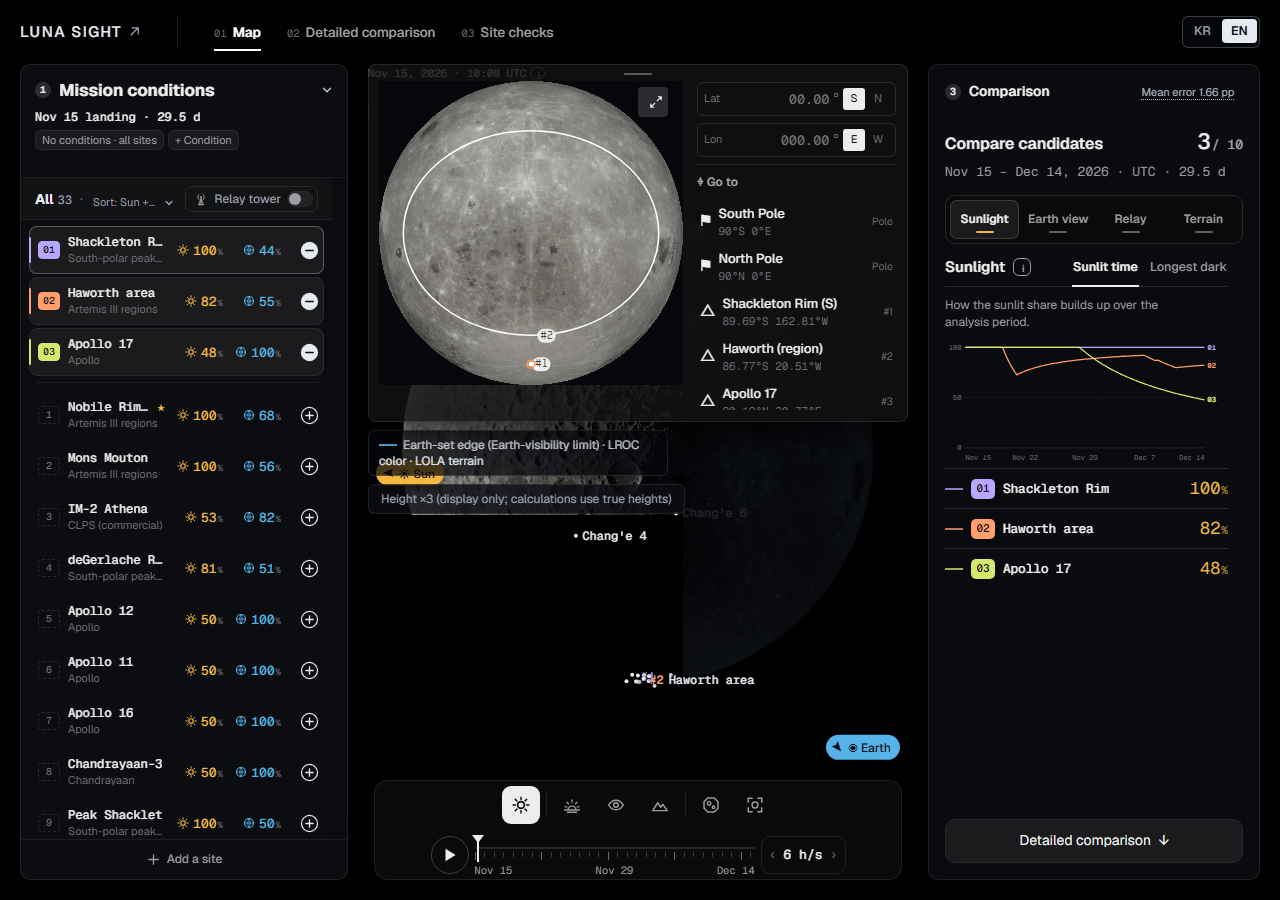
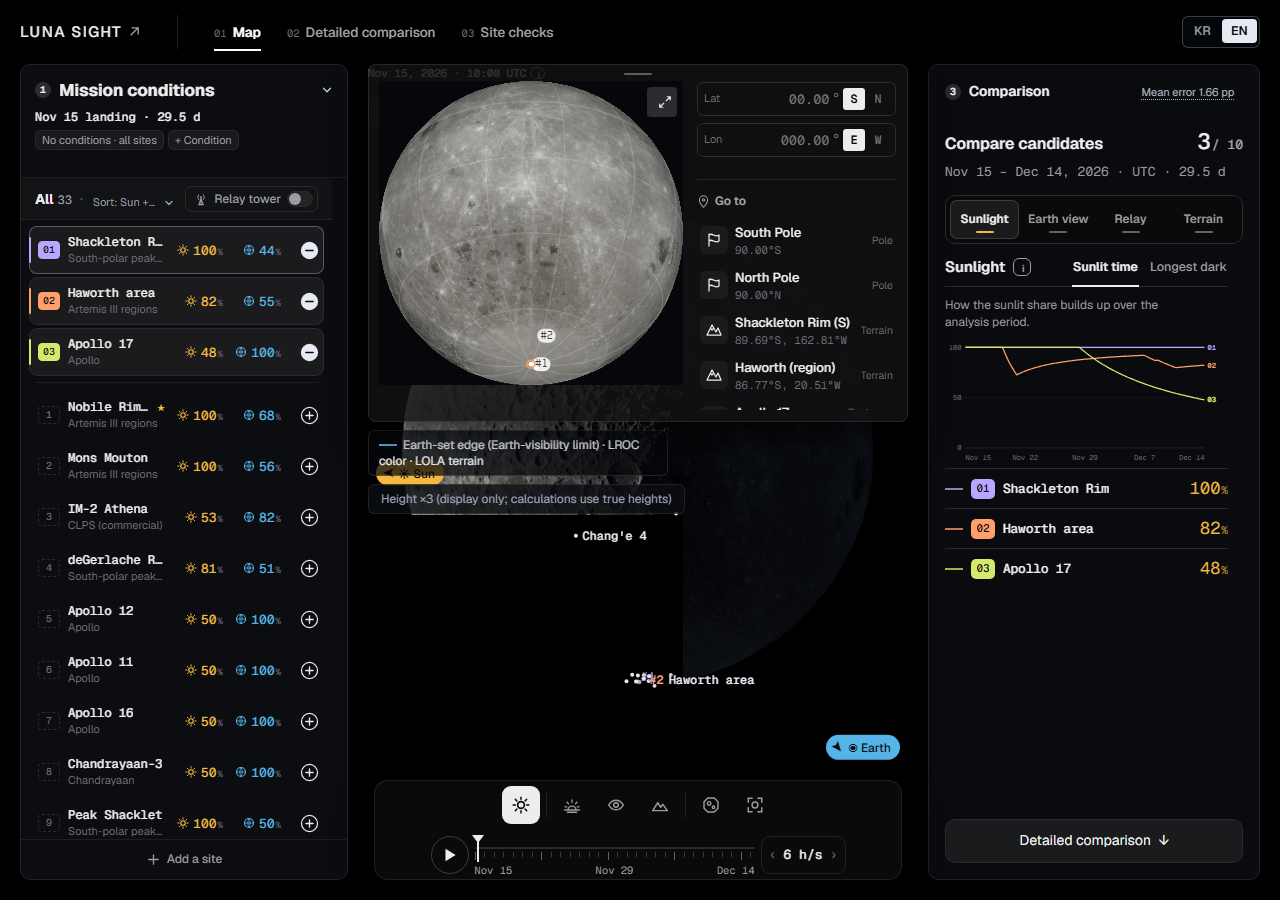
Fix minimap review details and mobile globe overlap

Changed region(s): [[0.5312, 0.1867, 0.6875, 0.4667], [0.5, 0.0933, 0.5312, 0.1244]]

diff --git a/web/js/minimap.js b/web/js/minimap.js
@@ -58,7 +58,7 @@ function build() {
   const exp = box.querySelector('.mm-exp');
   const closeIt = () => { box.classList.remove('open'); box.querySelector('.mm-side').hidden = true; own = null; sizeBall(); expLabel(); };
   exp.addEventListener('click', () => { if (box.classList.contains('open')) closeIt(); else { openIt(); expLabel(); } });
-  box.addEventListener('keydown', e => { if (e.key === 'Escape' && box.classList.contains('open')) { closeIt(); exp.focus(); } });
+  document.addEventListener('keydown', e => { if (e.key === 'Escape' && box.classList.contains('open')) { e.preventDefault(); closeIt(); exp.focus(); } });
   document.addEventListener('pointerdown', e => { if (!box.contains(e.target) && box.classList.contains('open')) closeIt(); });
   // drag rotates the minimap only; a click flies the 3D view there
   let drag = null;
@@ -113,7 +113,7 @@ function relabel() {
     s.querySelector(`#mm-${axis}`).closest('.mm-coord').querySelector('[role="group"]').setAttribute('aria-label',label);
   }
   s.querySelector('.mm-submit').textContent = t('mmGo'); s.querySelector('.mm-an').textContent = t('mmAnalyse');
-  s.querySelector('.mm-list-title').textContent = `⌖ ${t('mmGoto')}`;
+  s.querySelector('.mm-list-title').innerHTML = `${miniIcon('pin')}<span>${esc(t('mmGoto'))}</span>`;
 }
 function sizeBall() {
   const open = box.classList.contains('open'), width = box.clientWidth, height = box.clientHeight;
@@ -159,17 +159,10 @@ function draw() {
     g.putImageData(im, 0, 0);
   } else { g.fillStyle = '#555'; g.beginPath(); g.arc(R, R, R, 0, 7); g.fill(); }
   const dpr = W / parseFloat(cv.style.width || W);
-  g.strokeStyle = 'rgba(237,237,237,.18)'; g.lineWidth = .6 * dpr;
+  g.strokeStyle = 'rgba(237,237,237,.28)'; g.lineWidth = .75 * dpr;
   const curve = points => { g.beginPath(); let pen=false; for(const [lat,lon] of points) { const q=project(lat,lon); if(!q.front){pen=false;continue;} const x=R+q.x*R,y=R-q.y*R; if(pen)g.lineTo(x,y);else g.moveTo(x,y);pen=true; } g.stroke(); };
   for(let lat=-60;lat<=60;lat+=30)curve(Array.from({length:181},(_,i)=>[lat,i*2-180]));
   for(let lon=-180;lon<180;lon+=30)curve(Array.from({length:91},(_,i)=>[i*2-90,lon]));
-  // current 3D view: ring sized by the camera range (≈ half the visible width), centre dot
-  const p = project(view.lat, view.lon);
-  if (p.front) {
-    const ang = Math.min(1.4, Math.atan2(view.range * Math.tan(22.5 * D2R), 1737.4));
-    const rr = Math.max(3 * dpr, Math.sin(ang) * R);
-    g.strokeStyle = '#fff'; g.lineWidth = 1.5 * dpr; g.beginPath(); g.ellipse(R + p.x * R, R - p.y * R, rr, rr * 0.8, 0, 0, 7); g.stroke();
-  }
   // Pinned labels use separate pills, including nearby polar candidates.
   const pills=[];
   g.font = `${10 * dpr}px Oxanium, monospace`; g.textBaseline = 'middle';
@@ -204,15 +197,16 @@ function go() {
   err.style.color = 'var(--muted)'; err.textContent = fill(t('mmHere'), { c: `${r.lat.toFixed(4)}°, ${r.lon.toFixed(4)}°` });
   setTimeout(() => { err.style.color = ''; }, 0);
 }
+const miniIcon = kind => `<svg viewBox="0 0 16 16" aria-hidden="true" fill="none" stroke="currentColor" stroke-width="1.25" stroke-linecap="round" stroke-linejoin="round">${kind==='mountain'?'<path d="M1 13 6 3l4 7 2-4 3 7H1Z M4.5 6l1.5 2 1.5-2"/>':kind==='pin'?'<path d="M8 15s5-5 5-9a5 5 0 1 0-10 0c0 4 5 9 5 9Z"/><circle cx="8" cy="6" r="1.5"/>':'<path d="M3 14V2m0 1c3-3 6 3 10 0v6C9 12 6 6 3 9"/>'}</svg>`;
 function lists() {
   const el = box?.querySelector('.mm-lists'); if (!el || !box.classList.contains('open')) return;
   const st = LLSN().state, pins = LLSN().pins?.() || [];
-  const coord = s => `${Math.abs(s.lat).toFixed(2)}°${s.lat<0?'S':'N'} ${Math.abs(s.lon).toFixed(2)}°${s.lon<0?'W':'E'}`;
-  const row = (s, tag) => `<button type="button" class="mm-destination" data-site="${esc(s.id)}"><span class="mm-dest-icon" aria-hidden="true">${tag===t('mmPast')?'⚑':'△'}</span><span class="mm-dest-copy"><span>${esc(nameOf(s))}</span><small>${coord(s)}</small></span><span class="mm-tag">${esc(tag)}</span></button>`;
+  const coord = s => `${Math.abs(s.lat).toFixed(2)}°${s.lat<0?'S':'N'}, ${Math.abs(s.lon).toFixed(2)}°${s.lon<0?'W':'E'}`;
+  const row = (s, tag) => `<button type="button" class="mm-destination" data-site="${esc(s.id)}"><span class="mm-dest-icon" aria-hidden="true">${miniIcon(tag===t('mmPast')?'flag':'mountain')}</span><span class="mm-dest-copy"><span>${esc(nameOf(s))}</span><small>${coord(s)}</small></span><span class="mm-tag">${esc(tag)}</span></button>`;
   const past = s => ['apollo','luna','change','chandrayaan','slim','clps'].includes(s.group);
   const ordered = [...pins.map(p => st.sites.find(s => s.id===p.id)), ...(LLSN().sortedSites?.() || []).slice(0,5), ...st.sites.filter(past)].filter(Boolean);
   const seen = new Set();
-  el.innerHTML = [-90,90].map(lat => `<button type="button" class="mm-destination" data-pole="${lat}"><span class="mm-dest-icon" aria-hidden="true">⚑</span><span class="mm-dest-copy"><span>${esc(t(lat<0?'mmSouth':'mmNorth'))}</span><small>90°${lat<0?'S':'N'} 0°E</small></span><span class="mm-tag">${esc(t('mmPole'))}</span></button>`).join('') + ordered.filter(s=>{if(seen.has(s.id))return false;seen.add(s.id);return true;}).map(s=>row(s,pins.some(p=>p.id===s.id)?`#${pins.find(p=>p.id===s.id).n}`:past(s)?t('mmPast'):t('mmTerrain'))).join('');
+  el.innerHTML = [-90,90].map(lat => `<button type="button" class="mm-destination" data-pole="${lat}"><span class="mm-dest-icon" aria-hidden="true">${miniIcon('flag')}</span><span class="mm-dest-copy"><span>${esc(t(lat<0?'mmSouth':'mmNorth'))}</span><small>90.00°${lat<0?'S':'N'}</small></span><span class="mm-tag">${esc(t('mmPole'))}</span></button>`).join('') + ordered.filter(s=>{if(seen.has(s.id))return false;seen.add(s.id);return true;}).map(s=>row(s,past(s)?t('mmPast'):t('mmTerrain'))).join('');
 
 }
 

diff --git a/web/js/minimap_drag.js b/web/js/minimap_drag.js
@@ -6,6 +6,7 @@ const KEY='ls.minimapPos', SIZE_KEY='ls.minimapSizes.v13';
 const defaults={closed:{w:222,h:228},open:{w:580,h:358}};
 let box, grip, pos={fx:1,fy:0}, sizes=structuredClone(defaults), lastOpen=false, frame=0;
 const clamp=(v,a,b)=>Math.max(a,Math.min(b,v));
+const compact=()=>innerWidth<=899;
 const still=()=>matchMedia('(prefers-reduced-motion: reduce)').matches;
 function load(){try{const p=JSON.parse(localStorage.getItem(KEY));if(p&&Number.isFinite(p.fx)&&Number.isFinite(p.fy))pos={fx:clamp(p.fx,0,1),fy:clamp(p.fy,0,1)};
  const s=JSON.parse(localStorage.getItem(SIZE_KEY));for(const mode of ['closed','open'])if(s?.[mode]&&Number.isFinite(s[mode].w)&&Number.isFinite(s[mode].h))sizes[mode]={w:clamp(s[mode].w,mode==='open'?304:142,2000),h:clamp(s[mode].h,mode==='open'?228:148,1500)};
@@ -26,6 +27,12 @@ function followers(bx,by,w,h,a){
 }
 function place(animate=false){
  if(!box)return;
+ if(compact()){
+  const open=box.classList.contains('open');
+  Object.assign(box.style,{left:'',top:'',right:'',bottom:'',width:`${Math.min(open?580:222,innerWidth-32)}px`,height:`${open?358:228}px`});
+  for(const selector of ['#hud-1','#globe-stage .g3-dock','#map-legend']){const el=document.querySelector(selector);if(el)for(const key of ['left','top','right','bottom'])el.style[key]='';}
+  return;
+ }
  const a=area(),d=dimensions(a,box.classList.contains('open')?'open':'closed');
  let x=a.l+pos.fx*Math.max(0,a.r-a.l-d.w),y=a.t+pos.fy*Math.max(0,a.b-a.t-d.h);
  x=clamp(x,a.l,a.r-d.w);y=clamp(y,a.t,a.b-d.h);
@@ -42,6 +49,7 @@ function init(){
  const label=()=>{grip.setAttribute('aria-label',t('mmMove'));grip.title=t('mmMove');handles.forEach(h=>h.setAttribute('aria-label',`${t('mmResize')} (${h.dataset.edge})`));};label();window.addEventListener('llsn:lang',label);
  let drag=null;
  box.addEventListener('pointerdown',e=>{
+  if(compact())return;
   const handle=e.target.closest('.mm-resize'),moving=e.target.closest('.mm-grip');if((!handle&&!moving)||e.button!==0)return;
   const r=box.getBoundingClientRect(),a=area();drag={edge:handle?.dataset.edge,x:e.clientX,y:e.clientY,l:r.left-a.sc.left,t:r.top-a.sc.top,w:r.width,h:r.height,a};
   (handle||moving).setPointerCapture(e.pointerId);box.classList.add('dragging');e.preventDefault();e.stopPropagation();
@@ -63,11 +71,13 @@ function init(){
  };box.addEventListener('pointerup',end);box.addEventListener('pointercancel',end);
  const reset=()=>{pos={fx:1,fy:0};save();place(true);};grip.addEventListener('dblclick',reset);
  grip.addEventListener('keydown',e=>{
+  if(compact())return;
   if(e.key==='Home'){e.preventDefault();reset();return;}const delta={ArrowLeft:[-1,0],ArrowRight:[1,0],ArrowUp:[0,-1],ArrowDown:[0,1]}[e.key];if(!delta)return;
   e.preventDefault();const a=area(),r=box.getBoundingClientRect(),step=e.shiftKey?40:10;positionFromRect(r.left-a.sc.left+delta[0]*step,r.top-a.sc.top+delta[1]*step,r.width);save();place();
  });
  handles.forEach(h=>h.addEventListener('keydown',e=>{const delta={ArrowLeft:[-1,0],ArrowRight:[1,0],ArrowUp:[0,-1],ArrowDown:[0,1]}[e.key];if(!delta)return;e.preventDefault();const a=area(),r=box.getBoundingClientRect();drag={edge:h.dataset.edge,l:r.left-a.sc.left,t:r.top-a.sc.top,w:r.width,h:r.height,a};change(delta[0]*(e.shiftKey?40:10),delta[1]*(e.shiftKey?40:10));end();}));
  new MutationObserver(()=>{const open=box.classList.contains('open');if(open!==lastOpen){
+  if(compact()){lastOpen=open;place(true);return;}
   const a=area(),old=dimensions(a,lastOpen?'open':'closed'),next=dimensions(a,open?'open':'closed');
   const x=a.l+pos.fx*Math.max(0,a.r-a.l-old.w)+old.w-next.w,y=a.t+pos.fy*Math.max(0,a.b-a.t-old.h);
   lastOpen=open;positionFromRect(x,y,next.w);place(true);

diff --git a/web/css/layout.css b/web/css/layout.css
@@ -1345,7 +1345,7 @@ body.on-about .ls-export { display: none; }
 .ls-minimap .mm-grip { position:absolute; top:0; left:7px; right:7px; height:17px; margin:0; display:grid; opacity:1; z-index:4; }
 .ls-minimap .mm-grip i { width:28px; height:2px; border:0; border-radius:1px; background:rgba(237,237,237,.35); }
 .ls-minimap .mm-ball { position:absolute; top:16px; left:10px; margin:0; display:block; background:#05070b; cursor:pointer; touch-action:none; }
-.ls-minimap .mm-exp, .ls-minimap.open .mm-exp { left:calc(var(--mm-ball,200px) - 35px); right:auto; top:22px; width:30px; height:30px; border-radius:4px; border:0; background:rgba(58,58,62,.72); color:#ededed; z-index:3; }
+.ls-minimap .mm-exp, .ls-minimap.open .mm-exp { left:calc(var(--mm-ball,200px) - 26px); right:auto; top:22px; width:30px; height:30px; border-radius:4px; border:0; background:rgba(58,58,62,.72); color:#ededed; z-index:3; }
 .ls-minimap .mm-exp .ic { width:14px; height:14px; }
 .ls-minimap .mm-side { position:absolute; right:11px; top:17px; bottom:11px; width:var(--mm-panel,214px); display:flex; flex-direction:column; gap:7px; min-height:0; overflow:hidden; }
 .ls-minimap .mm-side[hidden] { display:none; }
@@ -1356,7 +1356,7 @@ body.on-about .ls-export { display: none; }
 .ls-minimap .mm-coord input::-webkit-inner-spin-button { appearance:none; }
 .ls-minimap .mm-coord > span { color:#6e6e74; }
 .ls-minimap .mm-hemis { display:flex; gap:2px; }
-.ls-minimap .mm-hemis button { width:22px; height:22px; padding:0; border:0; border-radius:3px; background:transparent; color:#6e6e74; font-size:11px; }
+.ls-minimap .mm-hemis button { width:22px; height:22px; padding:0; border:0; border-radius:3px; background:transparent; color:#6e6e74; font:600 12px "Geist Mono", ui-monospace, monospace; }
 .ls-minimap .mm-hemis button[aria-pressed=true] { background:#ededed; color:#0a0a0b; }
 .ls-minimap .mm-list-title { border-top:1px solid rgba(255,255,255,.1); padding-top:8px; font-size:12px; font-weight:600; color:#a3a3a8; }
 .ls-minimap .mm-lists { overflow-y:auto; min-height:0; flex:1; overscroll-behavior:contain; }
@@ -1381,3 +1381,22 @@ body.on-about .ls-export { display: none; }
 .ls-minimap .mm-nw,.ls-minimap .mm-se { cursor:nwse-resize; } .ls-minimap .mm-ne,.ls-minimap .mm-sw { cursor:nesw-resize; }
 .ls-minimap :focus-visible { outline:2px solid #ededed; outline-offset:-2px; }
 @media (prefers-reduced-motion:reduce) { .ls-minimap,.ls-minimap.mm-anim { transition:none; } }
+
+/* Phones/tablets: keep the minimap in its own row below the globe. */
+@media (max-width:899px) {
+  .ls-minimap, .ls-minimap.open { position:relative; inset:auto; order:1; flex:none; align-self:flex-end; margin:12px 16px 0; max-width:calc(100% - 32px); }
+  .ls-minimap .mm-grip, .ls-minimap .mm-resize { display:none; }
+}
+
+/* PR118 reference follow-up: line icons, destination categories and title spacing. */
+.ls-minimap .mm-list-title { display:flex; align-items:center; gap:5px; margin-top:15px; padding-top:12px; }
+.ls-minimap .mm-list-title svg { width:13px; height:13px; }
+.ls-minimap .mm-dest-icon { display:grid; place-items:center; width:28px; height:28px; flex:none; border-radius:6px; background:rgba(237,237,237,.05); }
+.ls-minimap .mm-dest-icon svg { width:16px; height:16px; }
+
+.ls-minimap .mm-dest-copy small { white-space:normal; }
+@media (max-width:599px) {
+  .ls-minimap .mm-destination { display:grid; grid-template-columns:28px minmax(0,1fr); column-gap:7px; row-gap:2px; }
+  .ls-minimap .mm-dest-icon { grid-row:1 / 3; }
+  .ls-minimap .mm-tag { grid-column:2; max-width:none; }
+}

diff --git a/pipeline/verify_minimap13_followup.py b/pipeline/verify_minimap13_followup.py
@@ -1,0 +1,31 @@
+import asyncio,json
+from pathlib import Path
+from playwright.async_api import async_playwright
+OUT=Path('docs/design_sync/jiyong_minimap13')
+async def main():
+ results=[]
+ async with async_playwright() as p:
+  for width in (390,768):
+   for lang in ('en','ko'):
+    browser=await p.chromium.launch();page=await browser.new_page(viewport={'width':width,'height':900},reduced_motion='reduce');errors=[]
+    page.on('requestfailed',lambda r:print('FAILED',r.url,r.failure,flush=True));page.on('pageerror',lambda e:errors.append(str(e)));page.on('console',lambda m:errors.append(m.text) if m.type=='error' else None)
+    await page.goto('http://127.0.0.1:8020/');await page.wait_for_selector('.mm-exp');await page.wait_for_function('window.LLSN?.globe?.flyTo');await page.wait_for_timeout(500)
+    if lang=='ko':await page.locator('[data-lang="ko"]').click()
+    box=page.locator('#ls-minimap');closed=await box.bounding_box();globe=await page.locator('#globe-stage canvas').first.bounding_box()
+    assert closed['y']>=globe['y']+globe['height'],(closed,globe)
+    await box.scroll_into_view_if_needed();await page.screenshot(path=str(OUT/f'followup_closed_{width}_{lang}.png'))
+    await page.locator('.mm-exp').click();await page.wait_for_timeout(250)
+    opened=await box.bounding_box();assert opened['width']<=width-32 and opened['x']>=0,opened
+    assert await page.locator('.mm-dest-icon svg').count()==await page.locator('.mm-destination').count()
+    assert await page.locator('[data-pole="-90"] small').inner_text()=='90.00°S'
+    assert ',' in await page.locator('.mm-destination[data-site] small').first.inner_text()
+    assert not any('#' in x for x in await page.locator('.mm-tag').all_text_contents())
+    icon=await page.locator('.mm-dest-icon').first.bounding_box();assert icon['width']==28 and icon['height']==28
+    assert await page.evaluate('document.documentElement.scrollWidth<=innerWidth')
+    await page.screenshot(path=str(OUT/f'followup_open_{width}_{lang}.png'))
+    await page.evaluate('document.activeElement.blur()');await page.keyboard.press('Escape');assert not await box.evaluate("e=>e.classList.contains('open')")
+    assert not errors,errors
+    results.append(dict(width=width,language=lang,closed=closed,globe=globe,opened=opened,errors=errors,overflow=False,checks='icon boxes, coordinates/categories, Escape with focus outside, separate minimap row'))
+    print(width,lang,'PASS',flush=True);await browser.close()
+ (OUT/'followup_checks.json').write_text(json.dumps(results,indent=2),encoding='utf-8')
+asyncio.run(main())

diff --git a/pipeline/verify_minimap13.py b/pipeline/verify_minimap13.py
@@ -19,7 +19,7 @@ async def check(p,width,lang):
  print(width,lang,'open PASS',flush=True)
  await page.screenshot(path=str(OUT/f'open_{width}_{lang}.png'))
  assert await page.locator('.mm-destination').count()>=7
- assert await page.locator('.mm-list-title').inner_text()==('⌖ 이동 목록' if lang=='ko' else '⌖ Go to')
+ assert await page.locator('.mm-list-title').inner_text()==('이동 목록' if lang=='ko' else 'Go to')
  await page.evaluate('''()=>{window.__flights=[];const g=LLSN.globe;g.flyTo=x=>{window.__flights.push(x);return undefined;};}''')
  await page.locator('#mm-lat').fill('91');await page.locator('#mm-lon').fill('15');await page.locator('#mm-lon').press('Enter')
  assert await page.locator('.mm-err').inner_text();assert await page.evaluate('__flights.length')==0

diff --git a/docs/design_sync/jiyong_minimap13/README.md b/docs/design_sync/jiyong_minimap13/README.md
@@ -35,3 +35,13 @@ git diff --check
 The browser loads the real app and waits for its 3D globe. Navigation tests capture the `flyTo` arguments without rendering each long-distance flight; these verify the minimap's coordinate/sign and destination wiring, not the unchanged 3D flight engine. Other interactions use actual browser pointer/keyboard input. Each language/width checks all eight resize handles, separate persisted sizes after reload, coordinate limits/hemispheres, destination selection, Escape and arrow/Home movement, and document overflow. `checks.json` and `verification.log` record results; no page or console errors are allowed.
 
 Fresh review found a reversed-size movement edge case (closed larger than open). Placement now normalizes against the current mode and preserves the upper-right expansion anchor separately. The extra browser check also verifies normal-motion intermediate dimensions, pointer movement, double-click reset and full left/bottom reach with reversed saved sizes; see `motion_check.json`.
+
+
+## PR118 review follow-up
+
+- Destination rows use 16 px line SVGs inside 28 px rounded boxes; two-decimal coordinates, comma separator and category labels replace list numbering. Narrow rows wrap coordinates instead of clipping.
+- Escape closes from outside the minimap focus. The large white camera ellipse is removed; graticule, orange focus and pinned pills remain.
+- Expand control moves 9 px right; hemisphere controls use the numeric font at 12 px/600.
+- At <=899 px the minimap occupies its own row below the globe. Desktop positions and sizing remain unchanged.
+- Run `python pipeline/verify_minimap13.py` and `python pipeline/verify_minimap13_followup.py` against a local web server on port 8020. Four desktop and four mobile/tablet EN/KR cases pass, with no page/console errors or document horizontal overflow. Mobile checks verify the globe/minimap bounding boxes do not overlap and Escape works after focus leaves the widget. A first run hit a transient resource connection refusal; the complete rerun passed without suppressing errors.
+- Follow-up screenshots and `followup_checks.json` contain the mobile evidence. Scientific data/calculations and `index.html` are unchanged.

diff --git a/docs/SI_USAGE.md b/docs/SI_USAGE.md
@@ -403,3 +403,5 @@ Ideas and design decisions come from team members; SI tools assist with code, da
 | 2026-11-15 19:05 (KST) | Sua Kim | 1 Integrator | Claude Code (Claude Opus 5.5) | Bundle 7 Site check on top of PR #96 (46bcfdc) and main 490c024: copy 17:49 measured values for box/head/summary/chips/cards, coming-soon chips back (Access to science targets, Routes & obstacles; slope and past missions stay real chips with data), strengths/cautions block removed (recorded in 대회판_변형제안.md), card 01 number grid from the same hourly bits as its table, English Geist/Geist Mono (SIL OFL 1.1) inside Site check, kicker 'Site checks' | web/js/brief.js, web/css/site_check.css, docs/SI_USAGE.md | TO CHECK | TO CHECK |
 
 | 2026-11-15 19:15 (KST) | Jiyong | Minimap bundle 13 | OpenAI Codex | Apply Chaei 18:41 minimap sizes, coordinate toggles, destination list and eight-way resize; verify 1440/1280 EN/KR | web/js/minimap.js, web/js/minimap_drag.js, web/css/layout.css (minimap only), pipeline/verify_minimap13.py, docs/design_sync/jiyong_minimap13 | TO CHECK | TO CHECK |
+
+| 2026-11-15 19:44 (KST) | Jiyong | PR118 review and mobile minimap | OpenAI Codex | Apply destination icons/coordinates/categories, global Escape, grid/focus styling and mobile non-overlap; verify desktop and 390/768 EN/KR | web/js/minimap.js, web/js/minimap_drag.js, web/css/layout.css, pipeline/verify_minimap13*.py, docs/design_sync/jiyong_minimap13 | TO CHECK | TO CHECK |
